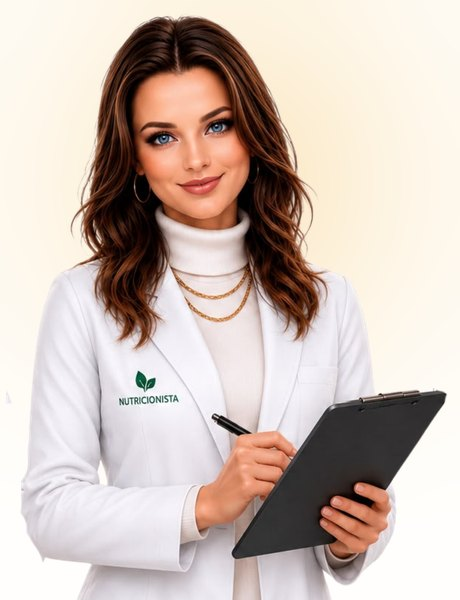
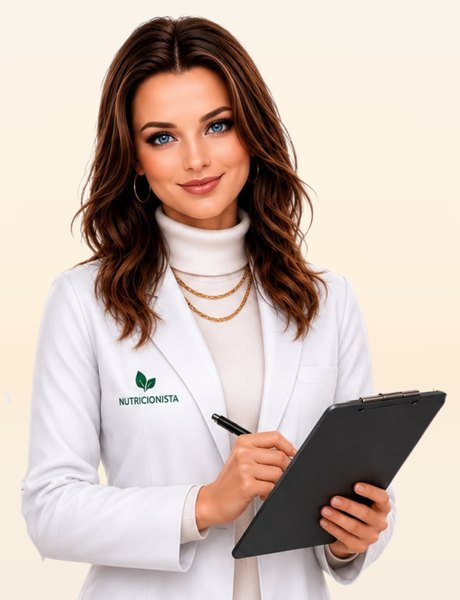
Add files via upload

Changed region(s): [[0.7, 0.57, 1.0, 1.0], [0.0, 0.57, 0.1826, 1.0], [0.213, 0.78, 0.2435, 0.81]]

diff --git a/index.html b/index.html
@@ -2786,7 +2786,7 @@ if(_al){
    aviso que o cliente com o app aberto recebe de que existe versao nova.
    Ficou parado em 24/08 enquanto o app andou — por isso as mudancas
    publicadas nao apareciam na tela. */
-var APP_VERSION="20260921_bel_luz";
+var APP_VERSION="20260921_bel_luz2";
 function checkForUpdate(){
   fetch(location.href.split('?')[0]+'?_v='+Date.now(),{cache:'no-store'})
   .then(function(r){return r.text();})
